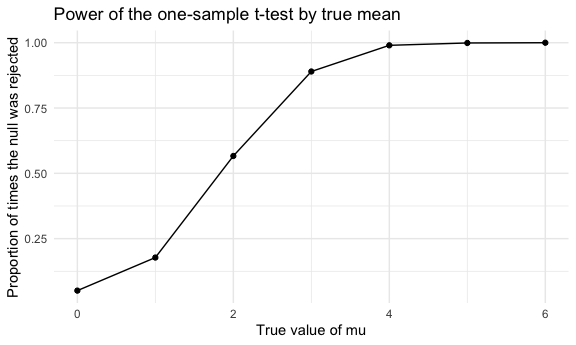
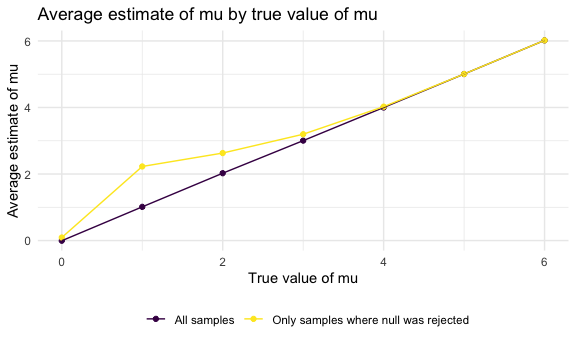
Plot4: average estimated mu vs. true mu

diff --git a/p8105_hw5_adv2123.md b/p8105_hw5_adv2123.md
@@ -12,12 +12,16 @@ Andrea Vasquez
     size.](#plot-1-probability-of-a-shared-birthday-as-a-function-of-group-size)
 - [Problem 2](#problem-2)
   - [2.1: Import data](#21-import-data)
-  - [2.2 Spaghetti plot](#22-spaghetti-plot)
+  - [Plot 2: Spaghetti plot](#plot-2-spaghetti-plot)
 - [Problem 3](#problem-3)
   - [3.1: building function](#31-building-function)
   - [3.2 Testing function](#32-testing-function)
   - [3.3 Generate 5000 datasets from the
     model](#33-generate-5000-datasets-from-the-model)
+  - [Plot 3: Proportion of times the null was rejected vs. true
+    mean](#plot-3-proportion-of-times-the-null-was-rejected-vs-true-mean)
+  - [Plot 4. Average estimate of mu by true value of
+    mu](#plot-4-average-estimate-of-mu-by-true-value-of-mu)
 
 ## Problem 1.
 
@@ -95,8 +99,8 @@ prob_50 =
 The probability that at least two people share a birthday increases
 quickly and non-linearly with group size. It is close to 0 for very
 small groups, but by around group size of 23 it goes above 50%
-(estimated mean = 0.516). By a group size of 50, the estimated
-probability is 0.97, so a shared birthday is almost certain. This is
+(estimated mean = 0.515). By a group size of 50, the estimated
+probability is 0.969, so a shared birthday is almost certain. This is
 much higher than most people would guess, because the number of possible
 pairs of people grows much faster than the number of people.
 
@@ -160,7 +164,7 @@ study_df
 The tidy dataset has 160 rows, with one row per subject per week (8
 weeks total), and 20 subjects in total – 10 subjects per arm.
 
-### 2.2 Spaghetti plot
+### Plot 2: Spaghetti plot
 
 ``` r
 study_df |>
@@ -243,7 +247,7 @@ sim_t_test(mu = 0)
     ## # A tibble: 1 × 2
     ##   mu_hat p_value
     ##    <dbl>   <dbl>
-    ## 1  0.223   0.804
+    ## 1 -0.155   0.872
 
 ### 3.3 Generate 5000 datasets from the model
 
@@ -260,8 +264,7 @@ sim_results_df =
   mutate(rejected = p_value < 0.05)
 ```
 
-\###. 3.4 Plot 3: Proportion of times the null was rejected vs. true
-mean
+### Plot 3: Proportion of times the null was rejected vs. true mean
 
 ``` r
 power_df =
@@ -280,12 +283,54 @@ power_df |>
   )
 ```
 
-<img src="p8105_hw5_adv2123_files/figure-gfm/unnamed-chunk-12-1.png" alt="" width="90%" />
+<img src="p8105_hw5_adv2123_files/figure-gfm/unnamed-chunk-11-1.png" alt="" width="90%" />
 
 Power increases as the effect size increases. When mu = 0, the null is
-true and it is rejected 0.051 of the time, which is close to alpha =
-0.05 as expected. Power is low for small effects (0.1776 when mu = 1),
-increases quickly for moderate effects (0.8898 when mu = 3), and is
-essentially 1 for large effects (1 when mu = 6). Because n and sigma are
-fixed, a larger true mean is further from the null value of 0, which
-makes the difference easier to detect and increases power.
+true and it is rejected 0.0506 of the time, which is close to alpha =
+0.05 as expected. Power is low for small effects (0.1958 when mu = 1),
+increases quickly for moderate effects (0.883 when mu = 3), and is
+essentially 1 for large effects (0.9998 when mu = 6). Because n and
+sigma are fixed, a larger true mean is further from the null value of 0,
+which makes the difference easier to detect and increases power.
+
+### Plot 4. Average estimate of mu by true value of mu
+
+``` r
+all_est_df = 
+  sim_results_df |> 
+  group_by(true_mu) |> 
+  summarize(avg_mu_hat = mean(mu_hat)) |> 
+  mutate(samples = "All samples")
+
+rejected_est_df = 
+  sim_results_df |> 
+  filter(rejected) |> 
+  group_by(true_mu) |> 
+  summarize(avg_mu_hat = mean(mu_hat)) |> 
+  mutate(samples = "Only samples where null was rejected")
+
+avg_est_df = 
+  bind_rows(all_est_df, rejected_est_df)
+
+avg_est_df |> 
+  ggplot(aes(x = true_mu, y = avg_mu_hat, color = samples)) + 
+  geom_point() + 
+  geom_line() + 
+  labs(
+    title = "Average estimate of mu by true value of mu",
+    x = "True value of mu",
+    y = "Average estimate of mu",
+    color = ""
+  )
+```
+
+<img src="p8105_hw5_adv2123_files/figure-gfm/unnamed-chunk-12-1.png" alt="" width="90%" />
+
+Across all samples, the average estimate of mu is approximately equal to
+the true mu (e.g., 3 when mu = 3). Among samples where the null was
+rejected, the average estimate overestimates the true mu when the effect
+size is small (e.g., 2.23 when mu = 1). When power is low, only samples
+with estimates far from 0 lead to rejection, meaning that significant
+findings are systematically biased away from the null. As mu increases,
+power approaches 1, so nearly all samples are rejected, and the average
+estimate gets close to the true value (e.g., 6.02 when mu = 6).
